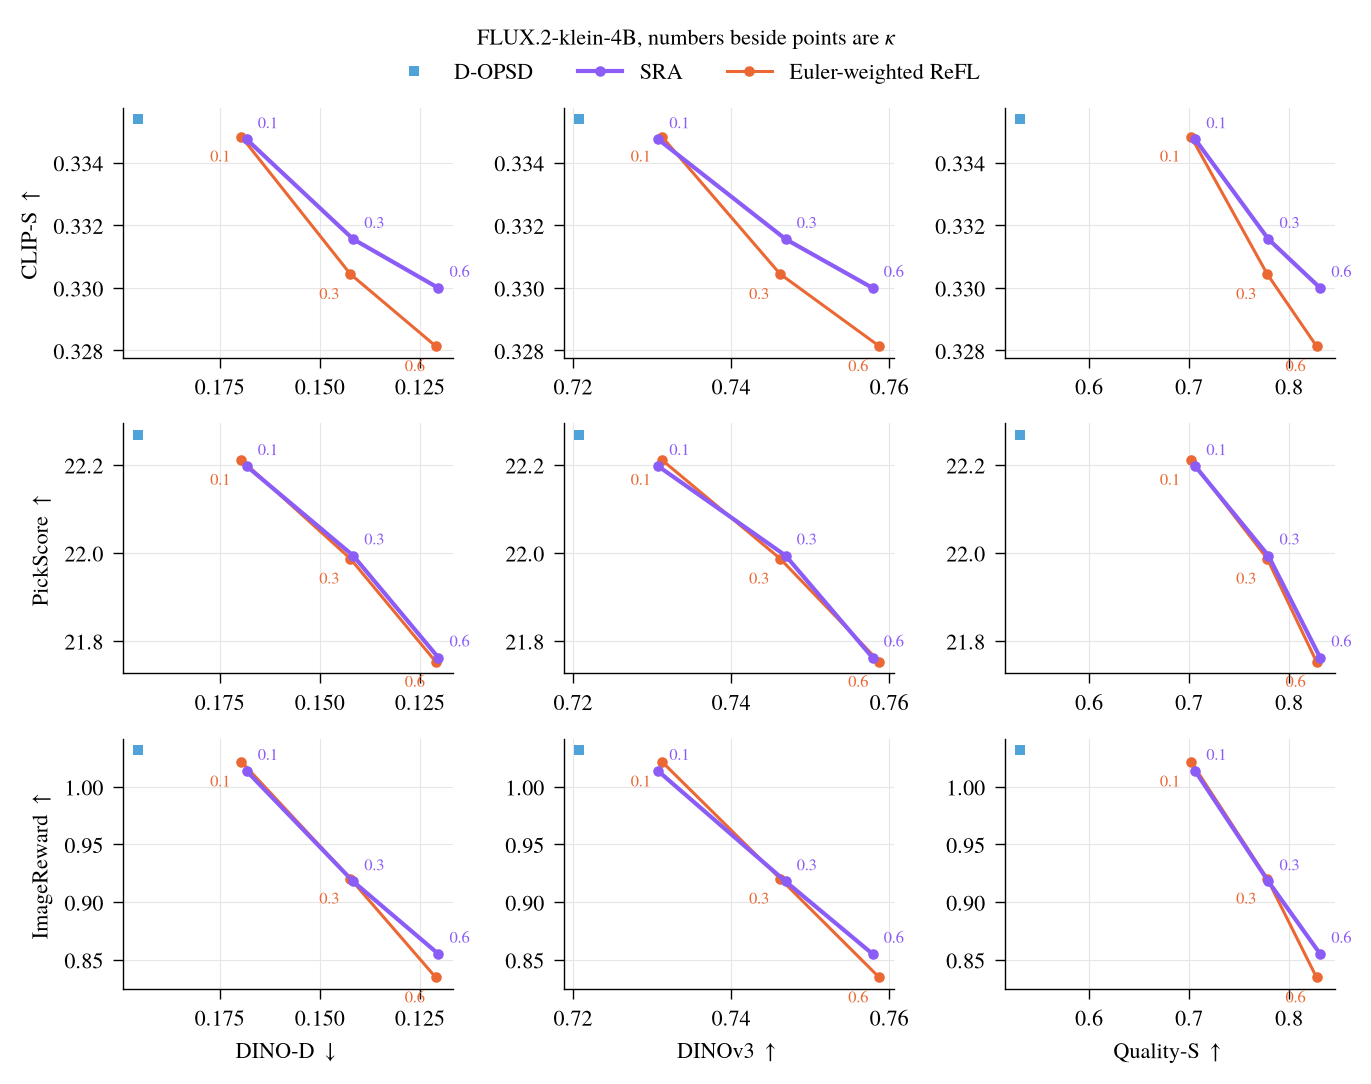
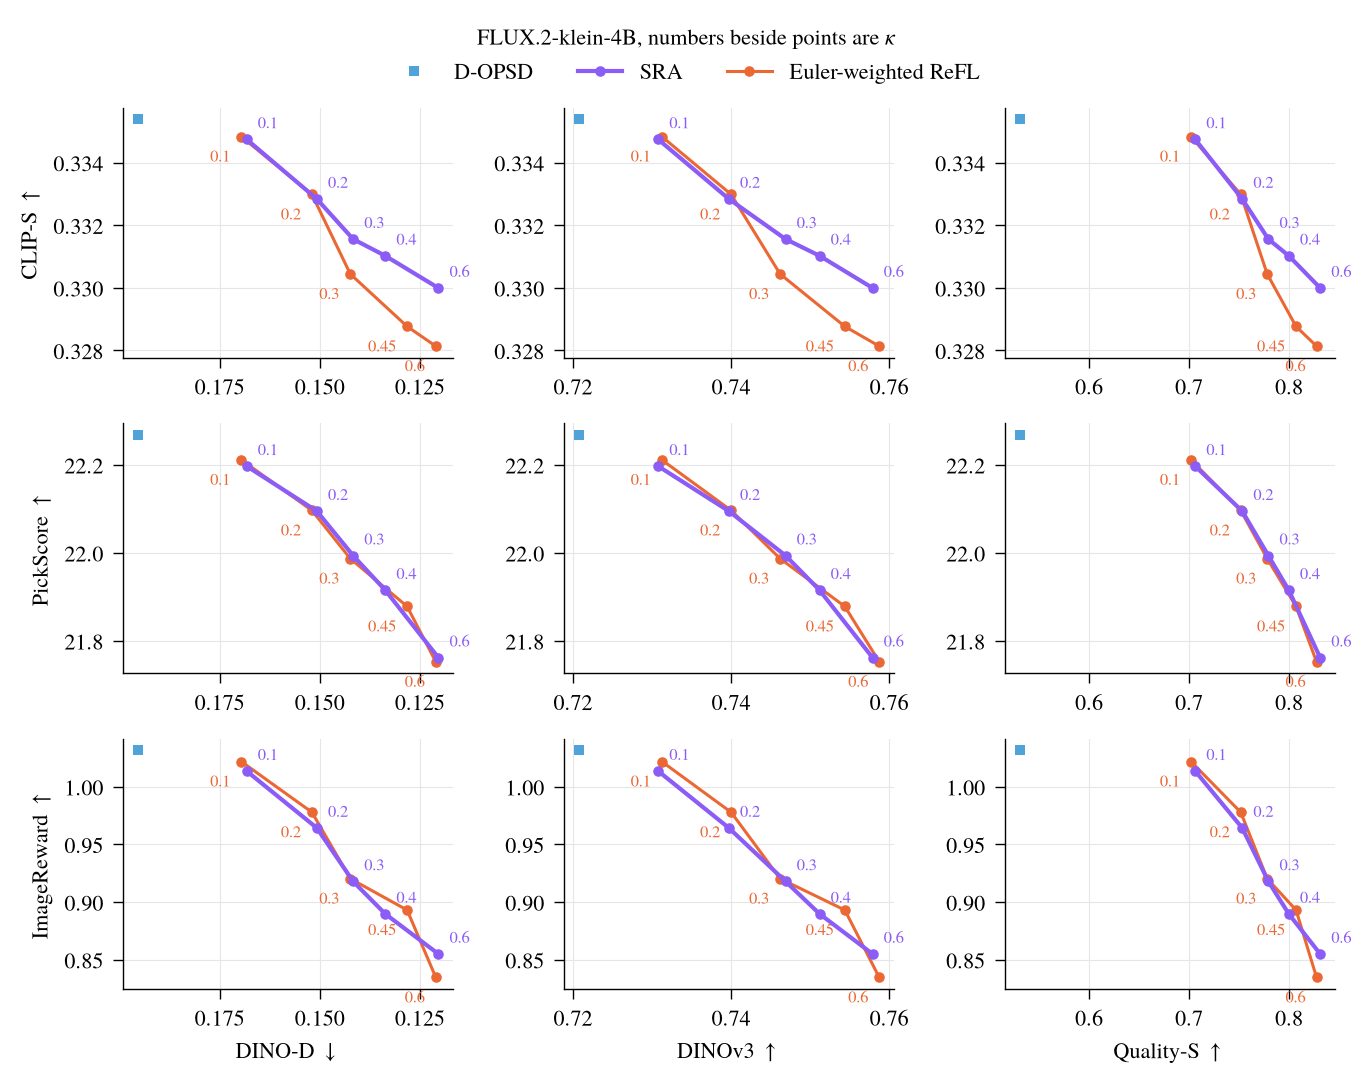
Update the FLUX.2-klein-4B kappa trade-off figure to five kappa values per method

diff --git a/README.md b/README.md
@@ -6,4 +6,4 @@ Anonymous supplementary material for an ICLR 2027 submission.
 
 - `figures/human_study.png` (also as PDF): the four-question human study. Four participants each rated all 200 pairs, 40 per comparison. Each column is one comparison, each row one question, and each bar gives the case-weighted share of judgments preferring SRA (win 1, tie 0.5, loss 0), so 50 means no preference.
 - `figures/kappa_tradeoff.png` (also as PDF): SRA and Euler-weighted ReFL on Z-Image-Turbo at four values of the reward strength κ each. Each row is one prompt-based metric (CLIP-S, PickScore, ImageReward), each column one reward-related metric (DINO-D, DINOv3, Quality-S), and the number beside each point is κ. Means over the twenty validation cases, one training run per configuration.
-- `figures/kappa_tradeoff_klein.png` (also as PDF): the same figure on FLUX.2-klein-4B, with SRA and Euler-weighted ReFL at κ = 0.1, 0.3 and 0.6 each.
+- `figures/kappa_tradeoff_klein.png` (also as PDF): the same figure on FLUX.2-klein-4B, with five values of κ for each method (Euler-weighted ReFL at 0.1, 0.2, 0.3, 0.45 and 0.6, SRA at 0.1, 0.2, 0.3, 0.4 and 0.6).
